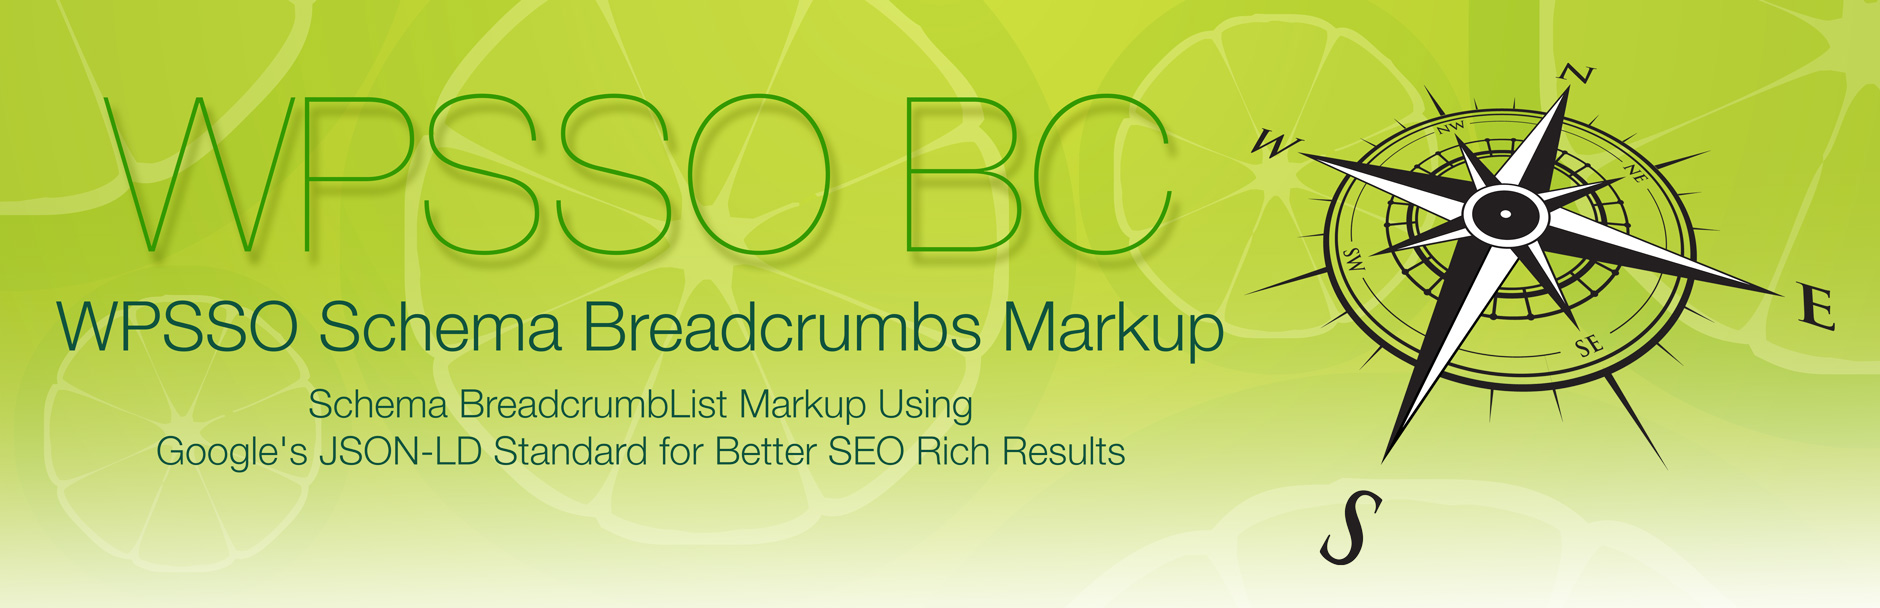
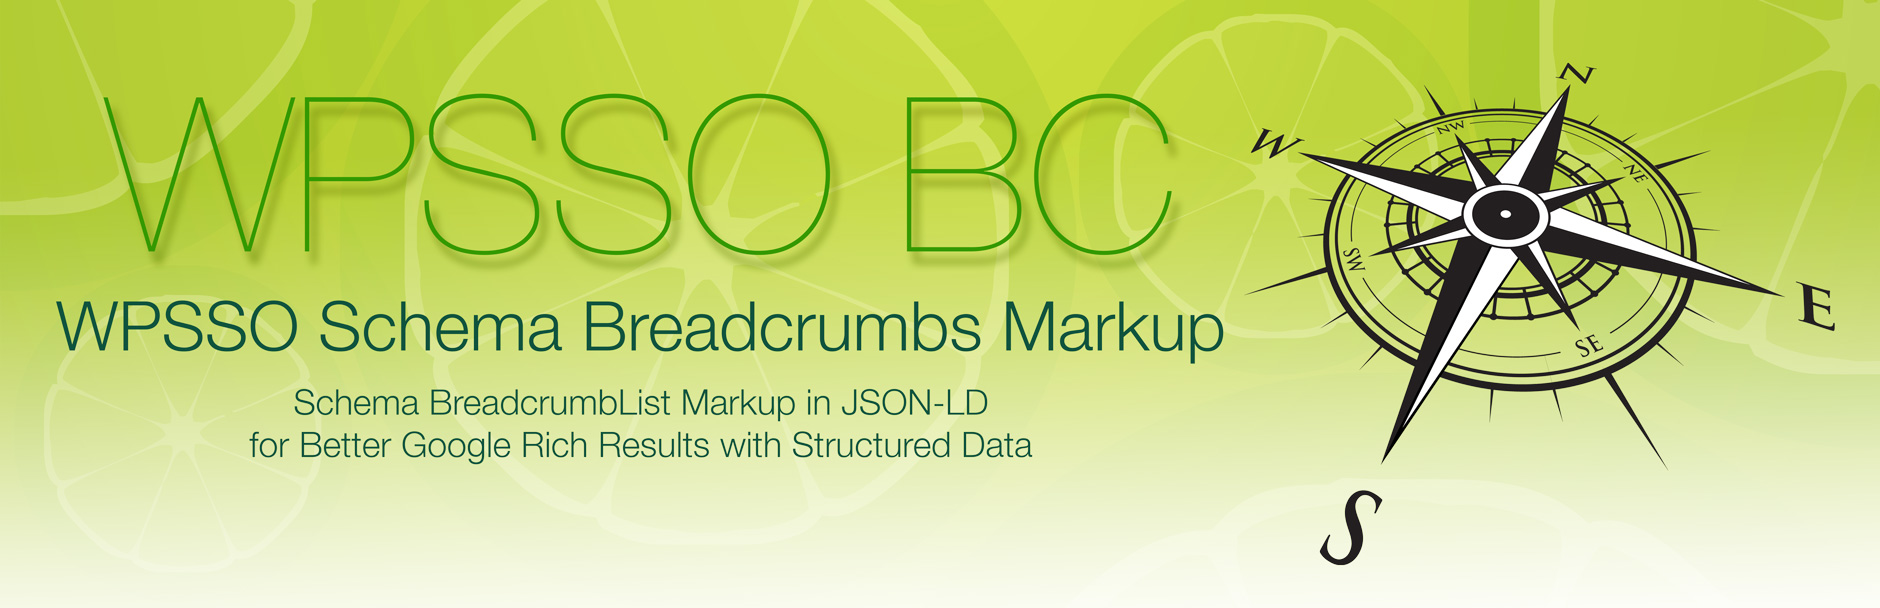
non-essential support files (documentation and assets)

diff --git a/index.html b/index.html
@@ -29,7 +29,7 @@
 
 <table>
 <tr><th align="right" valign="top" nowrap>Plugin Name</th><td>WPSSO Schema Breadcrumbs Markup</td></tr>
-<tr><th align="right" valign="top" nowrap>Summary</th><td>Schema BreadcrumbList markup in JSON-LD for better Google Rich Results with Structured Data.</td></tr>
+<tr><th align="right" valign="top" nowrap>Summary</th><td>Schema BreadcrumbList Markup in JSON-LD for Better Google Rich Results with Structured Data.</td></tr>
 <tr><th align="right" valign="top" nowrap>Stable Version</th><td>2.3.0</td></tr>
 <tr><th align="right" valign="top" nowrap>Requires PHP</th><td>5.6 or newer</td></tr>
 <tr><th align="right" valign="top" nowrap>Requires WordPress</th><td>4.2 or newer</td></tr>
